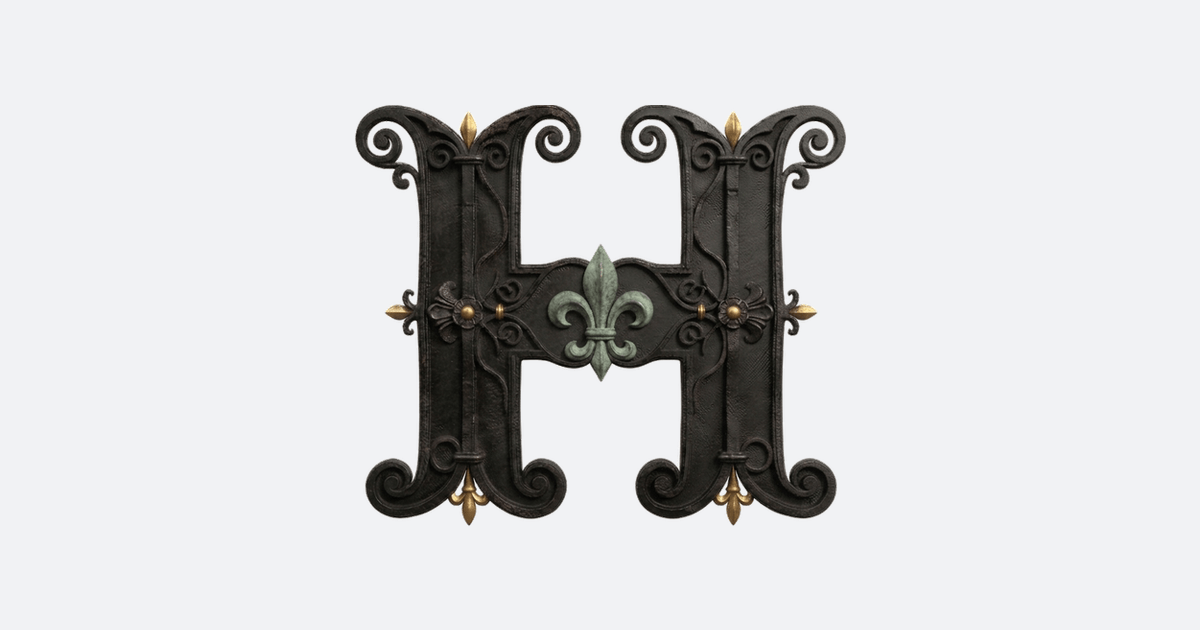
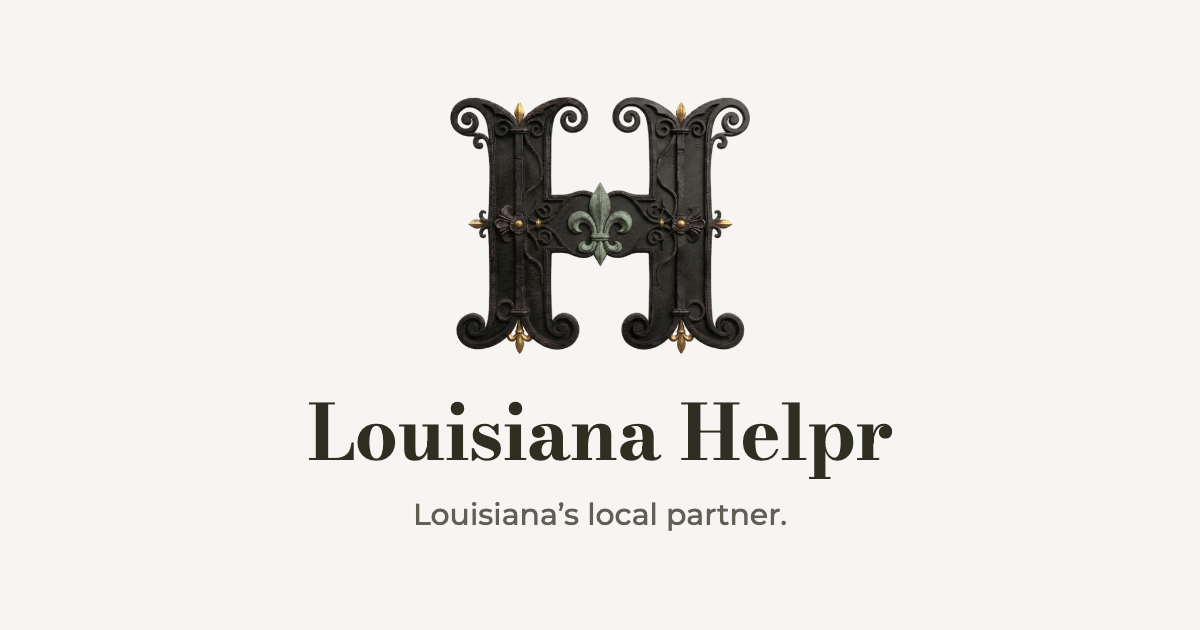
fix(share): the homepage preview names the site on the brand canvas
The homepage's share image was the H mark alone on a plain grey canvas: no
name, no line, not the brand's off-white. og-image.png is now the mark,
"Louisiana Helpr" (Bodoni Moda) and "Louisiana's local partner."
(Montserrat) on #F7F5F1, 1200x630, everything inside the central 630x630
square so a square crop never slices it, in og-declutter.png's layout (owner's
UI audit 11-09, F075). Rendered from the repo's own emblem and font files.
The cache-bust goes h2 -> h3 everywhere it is used (index.html og:image and
twitter:image, api/og-profile.ts's fallback), since link previewers cache by
full URL.

Guard homeShareImage: size + #F7F5F1 corner pixel, the art's sha256 pinned
beside its ?v=, one ?v= across every reference. Red on the old image (2 of 3)
and on each stale ?v= (@mutate x2), green now.

Claude-Session: https://claude.ai/code/session_019LQW7qcHvPcrH216miBTiC

Changed region(s): [[0.2467, 0.1508, 0.74, 0.8444]]

diff --git a/src/test/homeShareImage.test.ts b/src/test/homeShareImage.test.ts
@@ -1,0 +1,69 @@
+/**
+ * The homepage's link preview (og-image.png) says whose site it is (owner's UI audit 11-09, F075): it was the H mark
+ * alone on a plain grey (#F2F3F4-ish) canvas, with no "Louisiana Helpr" and no line. The 11-09 art is the mark,
+ * "Louisiana Helpr" and "Louisiana's local partner." on the brand's #F7F5F1, all inside the central square.
+ *
+ * Pins, each read from the real files:
+ *   1. the PNG is exactly 1200x630 and its corner pixel is the brand canvas #F7F5F1 (not the old grey);
+ *   2. the art and its cache-bust travel together: the file's sha256 is pinned beside the ?v= every reference uses, so
+ *      new art without a new ?v= (link previewers cache by full URL for weeks) or a new ?v= without new art is red;
+ *   3. every reference (index.html og:image + twitter:image, api/og-profile.ts's fallback) uses that one ?v=.
+ *
+ * @mutate index.html |     <meta property="og:image" content="https://www.louisianahelpr.com/og-image.png?v=h3" /> |     <meta property="og:image" content="https://www.louisianahelpr.com/og-image.png?v=h2" />
+ * @mutate api/og-profile.ts | export const OG_PROFILE_FALLBACK = "/og-image.png?v=h3"; | export const OG_PROFILE_FALLBACK = "/og-image.png?v=h2";
+ */
+import { describe, expect, it } from "vitest";
+import { createHash } from "node:crypto";
+import { readFileSync } from "node:fs";
+import { resolve } from "node:path";
+import { inflateSync } from "node:zlib";
+
+const ROOT = resolve(__dirname, "..", "..");
+const read = (f: string) => readFileSync(resolve(ROOT, f));
+
+/** The art and its cache-bust, changed together (bump the ?v= whenever the artwork changes: index.html's comment). */
[1 lines of base64/hex data omitted]
+
+/** Width, height and the top-left pixel's RGB from a PNG (row 0's first pixel is raw under every filter type). */
+function pngInfo(buf: Buffer): { width: number; height: number; corner: string } {
+  expect(buf.subarray(1, 4).toString("latin1")).toBe("PNG");
+  const width = buf.readUInt32BE(16);
+  const height = buf.readUInt32BE(20);
+  const bitDepth = buf[24];
+  const colorType = buf[25];
+  expect(bitDepth).toBe(8);
+  expect([2, 6]).toContain(colorType); // RGB or RGBA
+  const idat: Buffer[] = [];
+  for (let at = 8; at < buf.length; ) {
+    const len = buf.readUInt32BE(at);
+    const type = buf.subarray(at + 4, at + 8).toString("latin1");
+    if (type === "IDAT") idat.push(buf.subarray(at + 8, at + 8 + len));
+    at += 12 + len;
+  }
+  const raw = inflateSync(Buffer.concat(idat));
+  const hex = (n: number) => n.toString(16).padStart(2, "0").toUpperCase();
+  return { width, height, corner: `#${hex(raw[1])}${hex(raw[2])}${hex(raw[3])}` };
+}
+
+describe("the homepage's link preview names the site (F075)", () => {
+  const png = read("public/og-image.png");
+
+  it("is 1200x630 on the brand's #F7F5F1 canvas", () => {
+    const info = pngInfo(png);
+    expect(info.width).toBe(1200);
+    expect(info.height).toBe(630);
+    expect(info.corner).toBe("#F7F5F1");
+  });
+
+  it("the art and its ?v= change together", () => {
+    expect(createHash("sha256").update(png).digest("hex"), "og-image.png changed: bump ART.version and every ?v=").toBe(ART.sha256);
+  });
+
+  it("every reference uses the one ?v=", () => {
+    const html = read("index.html").toString("utf8");
+    const refs = [...html.matchAll(/<meta (?:property|name)="(?:og|twitter):image" content="https:\/\/www\.louisianahelpr\.com\/og-image\.png\?v=([\w]+)" \/>/g)];
+    expect(refs.length).toBe(2);
+    for (const r of refs) expect(r[1]).toBe(ART.version);
+    expect(read("api/og-profile.ts").toString("utf8")).toContain(`export const OG_PROFILE_FALLBACK = "/og-image.png?v=${ART.version}";`);
+  });
+});

diff --git a/index.html b/index.html
@@ -229,7 +229,10 @@
     <meta property="og:description" content="Hire a Helpr or find local work. For everyday jobs, big and small — Louisiana's trusted marketplace." />
     <!-- === SOCIAL PREVIEW IMAGES — the centring is load-bearing ===
          og-image.png is 1200×630 (1.91:1, the Open Graph standard) with the
-         wrought-iron H mark DEAD CENTRE on the #F4F2EE canvas. Centre placement is
+         wrought-iron H mark, "Louisiana Helpr" (Bodoni Moda) and "Louisiana's local
+         partner." (Montserrat) DEAD CENTRE on the brand's #F7F5F1 canvas, all three
+         inside the central 630×630 square (owner's UI audit 11-09, F075: the mark
+         alone on grey said nothing). Centre placement is
          not styling: every consumer crops this file to its own aspect ratio from
          the centre, so the mark survives all of them — 1.91:1 (Facebook/LinkedIn,
          no crop at all), 2:1 (Twitter/X summary_large_image, trims 15px top and
@@ -243,13 +246,12 @@
          to 624×624 and reproducing the exact thumbnail.
 
          Rules that follow from that, for anyone regenerating this art:
-           • Keep text OUT of the central 630×630 square, or omit text entirely
-             (og:title already renders as the card headline right beneath the image,
-             so a wordmark baked into the picture is redundant anyway).
+           • Keep any text INSIDE the central 630×630 square (the 11-09 art's name
+             and line are 580px and 370px wide), so a square crop never slices it.
            • Never go wider than 1.91:1 again — the extra width is pure crop bait.
            • Anything that must never be clipped belongs inside that centre square.
 
-         The ?v=h2 query is a deliberate cache bust, not a stray. Facebook, Slack,
+         The ?v=h3 query (h2 until the 11-09 art) is a deliberate cache bust, not a stray. Facebook, Slack,
          LinkedIn and Apple's LinkPresentation each cache a scraped og:image against
          its full URL for weeks, independent of Cache-Control, so reusing the bare
          /og-image.png path would have kept serving the clipped "Help" tile to
@@ -265,7 +267,7 @@
          card. Guard: src/test/oneShareImagePerPage.test.ts. Keep
          og:image:type/width/height/alt immediately after the og:image, since Open
          Graph binds structured sub-properties to the preceding parent by position. -->
-    <meta property="og:image" content="https://www.louisianahelpr.com/og-image.png?v=h2" />
+    <meta property="og:image" content="https://www.louisianahelpr.com/og-image.png?v=h3" />
     <meta property="og:image:type" content="image/png" />
     <meta property="og:image:width" content="1200" />
     <meta property="og:image:height" content="630" />
@@ -283,7 +285,7 @@
     <!-- Deliberately the WIDE banner, not the square: summary_large_image crops to
          2:1, so handing it the 1024×1024 square would shave the top and bottom off
          the H. The banner's centred mark survives that crop untouched. -->
-    <meta name="twitter:image" content="https://www.louisianahelpr.com/og-image.png?v=h2" />
+    <meta name="twitter:image" content="https://www.louisianahelpr.com/og-image.png?v=h3" />
     <meta name="twitter:image:alt" content="The Helpr mark — an ornate wrought-iron letter H with a fleur-de-lis at its centre" />
 
     <!-- Site-wide structured data, served statically so non-JS crawlers

diff --git a/src/test/ogProfileCard.test.ts b/src/test/ogProfileCard.test.ts
@@ -9,7 +9,7 @@
  *  - the renderer stays server-only: nothing under src/ (outside this module and tests) imports it, satori or resvg.
  *
  * @mutate api/share.ts |     image: profileCardImage(typeof card.handle === "string" && HANDLE_RE.test(card.handle) ? card.handle : handle, card, name), |     image: undefined,
- * @mutate api/share.ts |     url: ogProfileImageUrl(SITE_ORIGIN, handle, card), |     url: `${SITE_ORIGIN}/og-image.png?v=h2`,
+ * @mutate api/share.ts |     url: ogProfileImageUrl(SITE_ORIGIN, handle, card), |     url: `${SITE_ORIGIN}/og-image.png?v=h3`,
  * @mutate src/lib/ogProfileCard.mjs |   const s = [l.name, l.town, l.rating, l.facts, l.skills, | const s = [l.name, l.town,
  * @mutate src/lib/ogProfileCard.mjs |   if (avatarUrl.slice(0, prefix.length) !== prefix) return null; |
  * @mutate api/og-profile.ts |       if (!HANDLE_RE.test(handle)) return fallback(); |
@@ -111,7 +111,7 @@ describe("the branded /u link card (api/og-profile.ts + api/share.ts)", () => {
     answer = null;
     for (const res of [await ogFetch("nobody-here")]) {
       expect(res.status).toBe(302);
-      expect(res.headers.get("location")).toBe("https://www.louisianahelpr.com/og-image.png?v=h2");
+      expect(res.headers.get("location")).toBe("https://www.louisianahelpr.com/og-image.png?v=h3");
       expect(res.headers.get("vercel-cdn-cache-control")).toBeNull();
     }
     rpcStatus = 500;
@@ -122,7 +122,7 @@ describe("the branded /u link card (api/og-profile.ts + api/share.ts)", () => {
     for (const h of ["x", "../etc", "a".repeat(31), `lexi-l${" ".repeat(80)}`, "lexi_l"]) {
       const r = await ogFetch(h, null);
       expect(r.status, h).toBe(302);
-      expect(r.headers.get("location"), h).toBe("https://www.louisianahelpr.com/og-image.png?v=h2");
+      expect(r.headers.get("location"), h).toBe("https://www.louisianahelpr.com/og-image.png?v=h3");
     }
     expect(fetched.length).toBe(before);
   }, 30_000);

diff --git a/src/test/oneShareImagePerPage.test.ts b/src/test/oneShareImagePerPage.test.ts
@@ -10,7 +10,7 @@
  * those still carry exactly one og:image (counted there).
  *
  * @mutate index.html |     <meta property="og:site_name" content="Louisiana Helpr" /> |     <meta property="og:image" content="https://www.louisianahelpr.com/og-image-square.png" />\n    <meta property="og:image:width" content="1024" />\n    <meta property="og:image:height" content="1024" />\n    <meta property="og:site_name" content="Louisiana Helpr" />
- * @mutate index.html |     <meta name="twitter:image" content="https://www.louisianahelpr.com/og-image.png?v=h2" /> |     <meta name="twitter:image" content="https://www.louisianahelpr.com/og-image-square.png" />
+ * @mutate index.html |     <meta name="twitter:image" content="https://www.louisianahelpr.com/og-image.png?v=h3" /> |     <meta name="twitter:image" content="https://www.louisianahelpr.com/og-image-square.png" />
  * @mutate api/share.ts |     ...(card ? { image: { url: `${SITE_ORIGIN}${card.path}`, type: "image/png", width: 1200, height: 630, alt: card.alt } } : {}), |     ...(card ? { image: { url: `${SITE_ORIGIN}${card.path}`, type: "image/png", width: 1024, height: 1024, alt: card.alt } } : {}),
  * @mutate scripts/build-og-shell.mjs |   if (!IMAGE_ORDER_GUARD.test(html) \|\| ogImageCount !== 1) { |   if (!IMAGE_ORDER_GUARD.test(html)) {
  */

diff --git a/api/og-profile.ts b/api/og-profile.ts
@@ -48,7 +48,7 @@ export const OG_PROFILE_CDN_CACHE = "public, s-maxage=300, stale-while-revalidat
 /** No handle is longer than 30 characters (profiles_handle_format); a longer query is refused before any work. */
 const MAX_HANDLE_PARAM = 64;
 /** Where every miss goes: the shell's own 1200x630 brand card (index.html og:image), the size share.ts declares. */
-export const OG_PROFILE_FALLBACK = "/og-image.png?v=h2";
+export const OG_PROFILE_FALLBACK = "/og-image.png?v=h3";
 
 /** Brand tokens (src/index.css): parchment ground, olivewood text, sage accent. */
 const PARCHMENT = "#F4F2EE";
